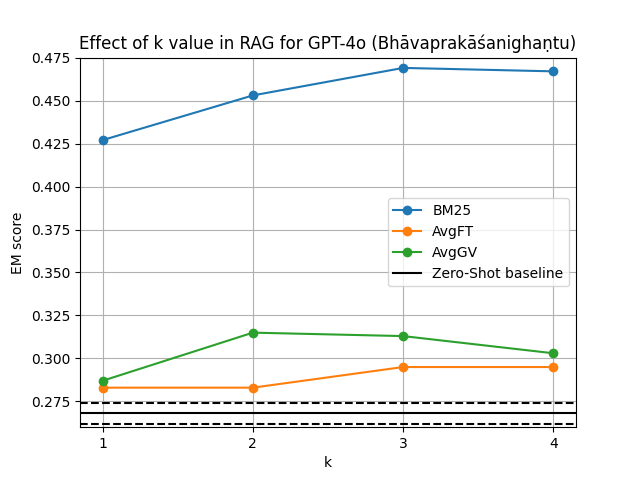
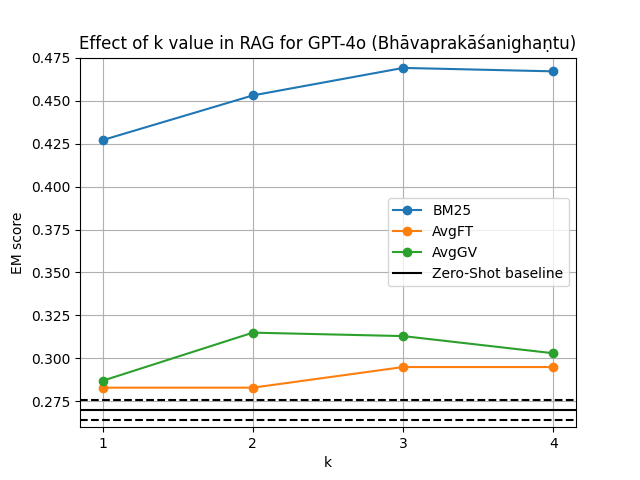
Update: Ramayana results final

Changed region(s): [[0.125, 0.8125, 0.9062, 0.9062]]

diff --git a/SktQA/evaluate.py b/SktQA/evaluate.py
@@ -18,13 +18,22 @@ def plot_k(data, pre):
     
     if pre=='':
         plt.title('Effect of k value in RAG for GPT-4o (Rāmāyaṇa)')
-        err = 0.007
-        avg = 0.409
+        
+        zs_df = pd.read_csv('results/zero_shot/eval_table.tsv', sep='\t')
+        txt = dict(zip(zs_df['LLM'], zs_df['sanskrit']))['gpt-4o']
+
+        err = float(txt.split('(')[1].replace(')',''))
+        avg = float(txt.split('(')[0].strip())
 
     elif pre=='ayurveda_':
         plt.title('Effect of k value in RAG for GPT-4o (Bhāvaprakāśanighaṇtu)')
-        err = 0.006
-        avg = 0.27
+        
+        zs_df = pd.read_csv('results/zero_shot/eval_table.tsv', sep='\t')
+        txt = dict(zip(zs_df['LLM'], zs_df['ayurveda']))['gpt-4o']
+
+        err = float(txt.split('(')[1].replace(')',''))
+        avg = float(txt.split('(')[0].strip())
+
 
     plt.axhline(y = avg, color = 'k', linestyle = '-', label='Zero-Shot baseline') 
     plt.axhline(y = avg+err, color = 'k', linestyle = '--') 
